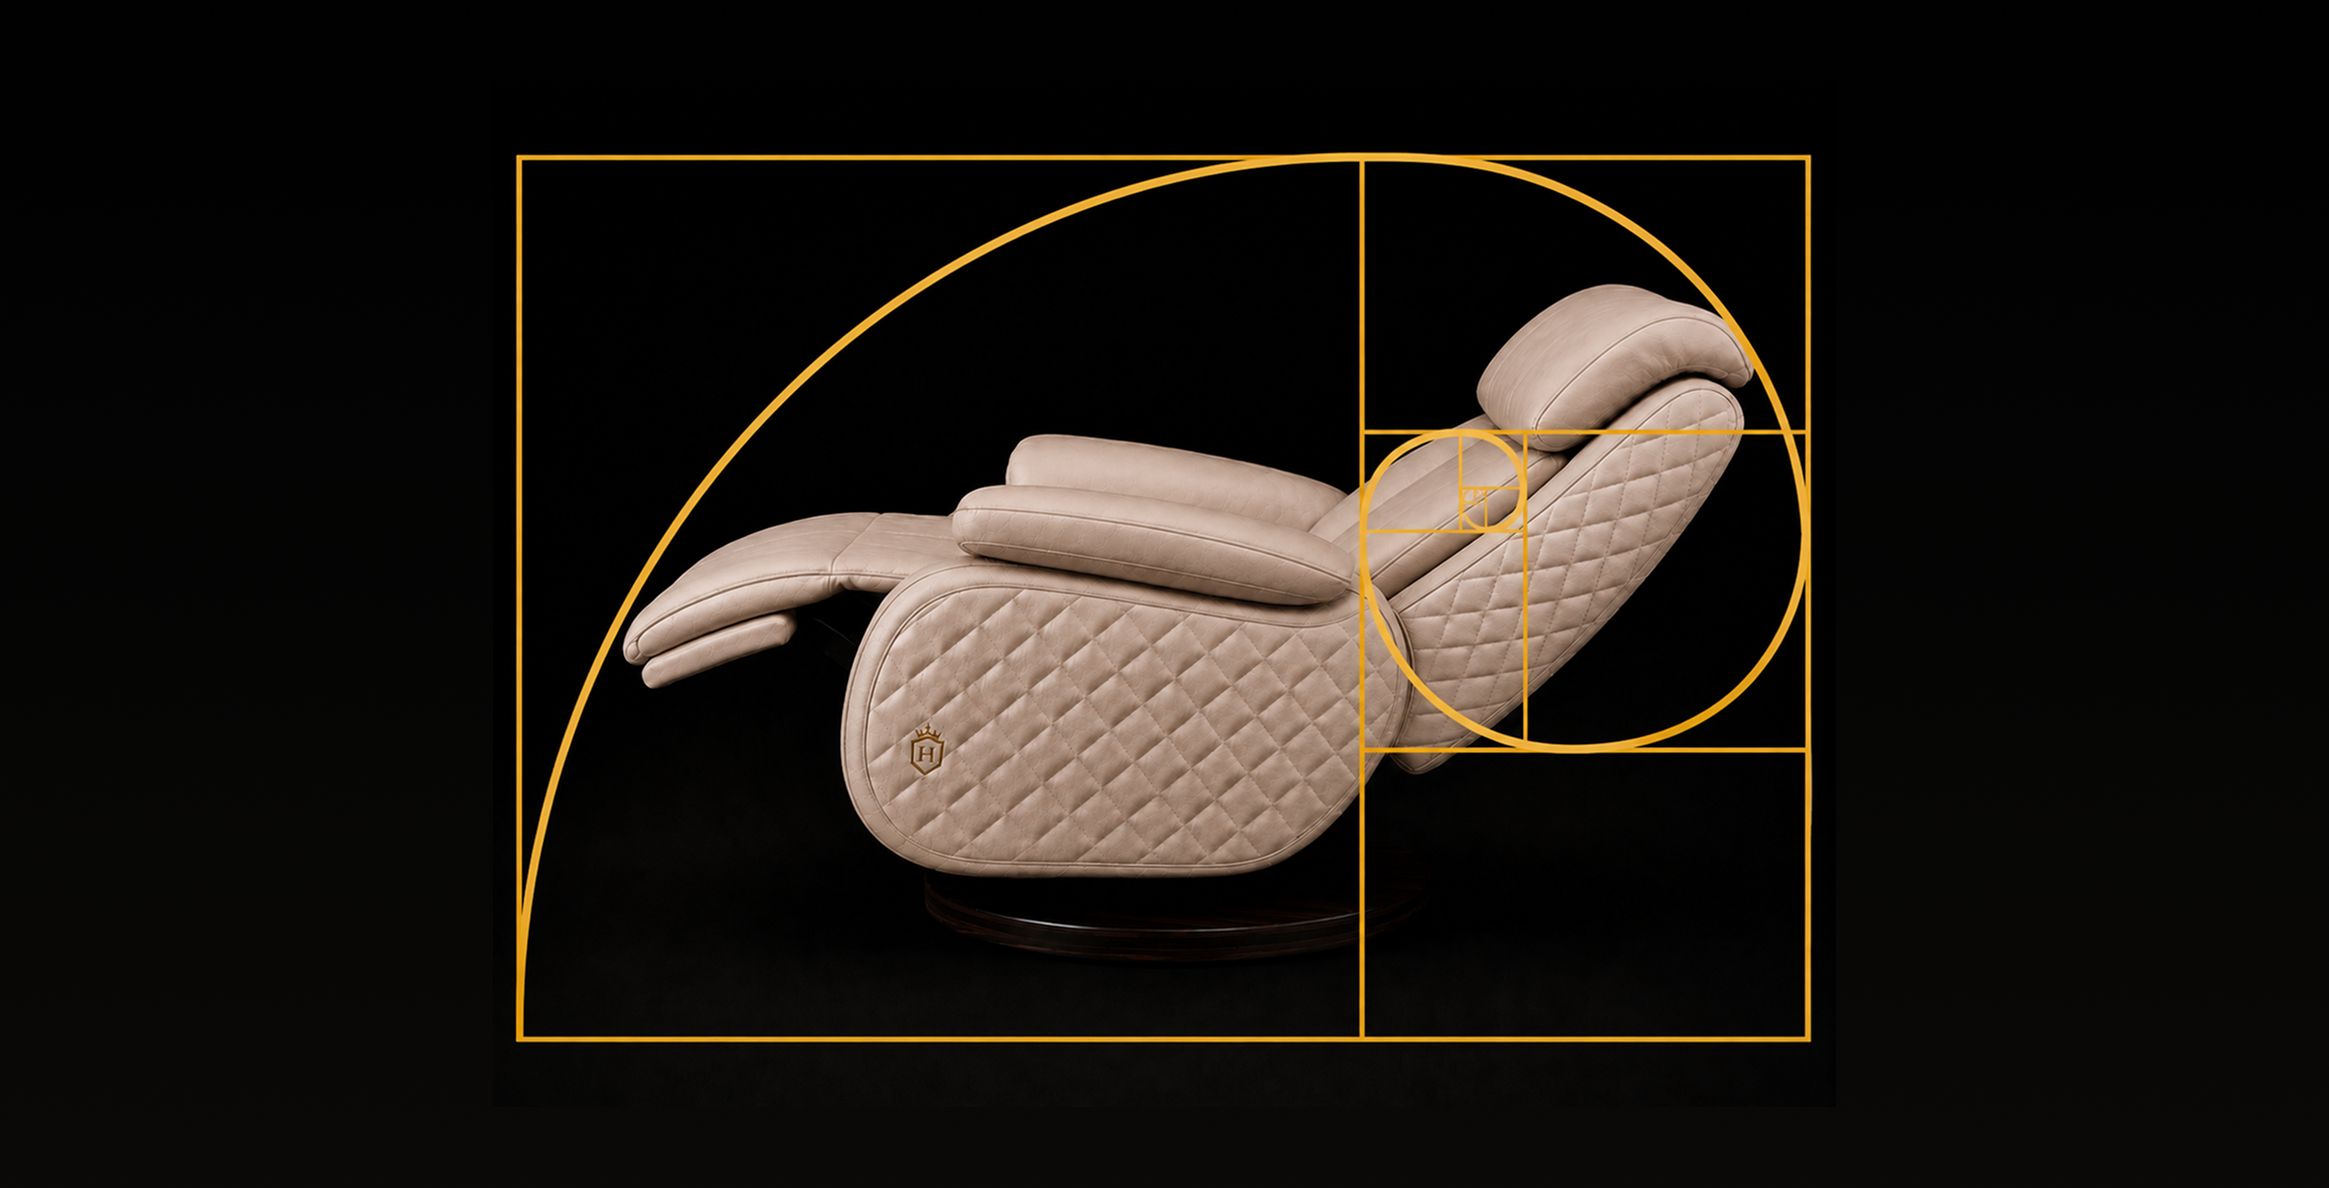
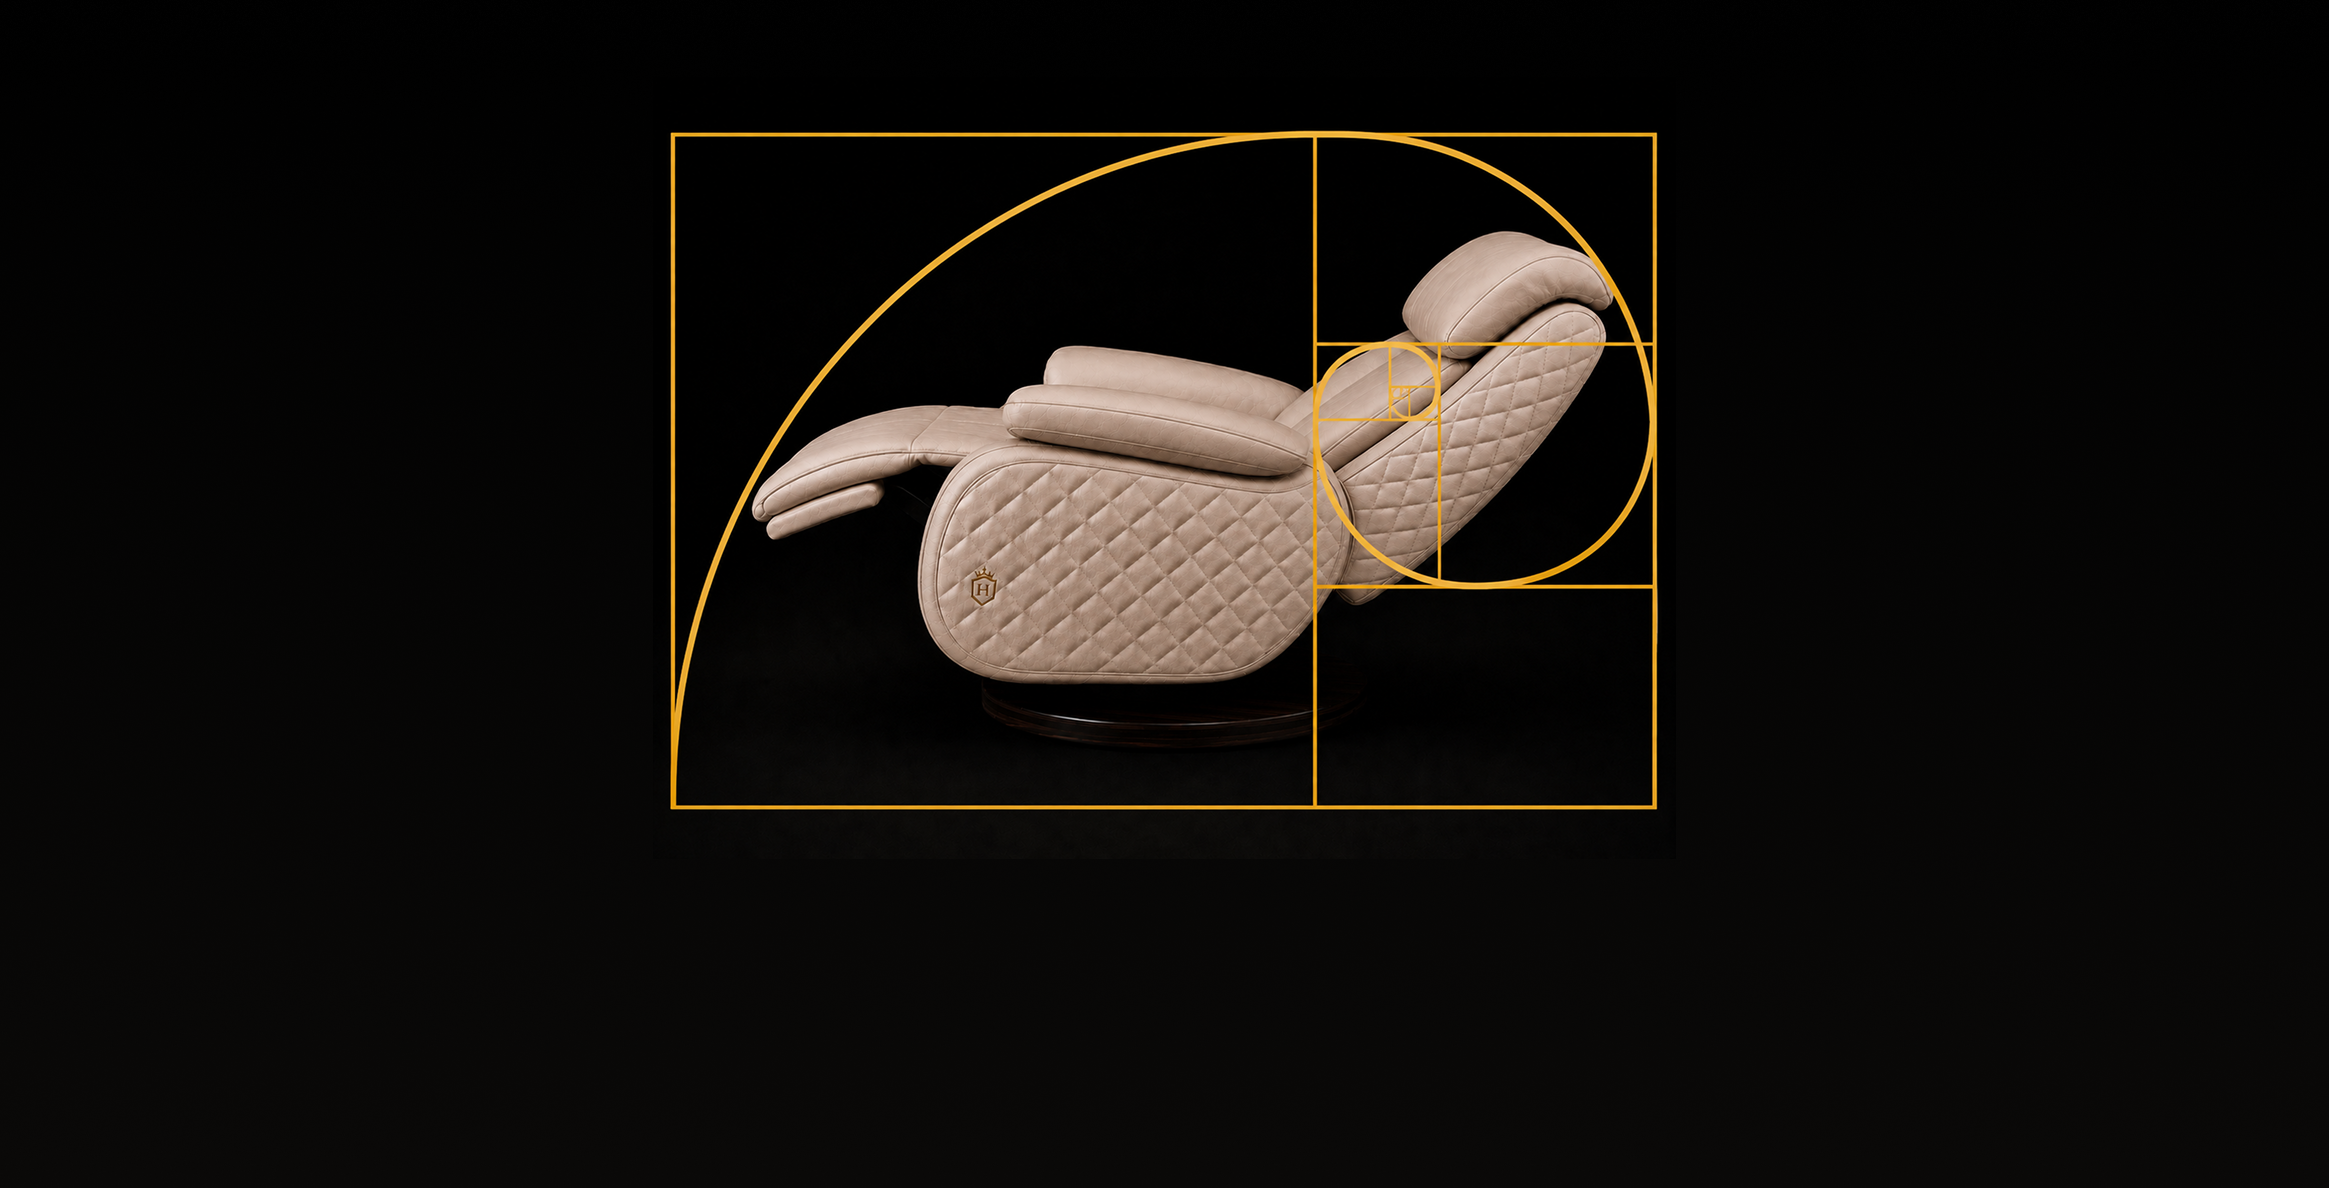
Update Filozofia Henry page copy and manifesto photo: new inspiration text, stacked family/manufactory heading, wider-margin chair image to keep overlay text clear of the golden ratio frame
Claude-Session: https://claude.ai/code/session_015RUcVHhEeqvYRALSDwFakm

Changed region(s): [[0.2164, 0.0934, 0.8038, 0.8721], [0.2164, 0.5918, 0.7729, 0.9032], [0.5565, 0.7475, 0.5874, 0.7786]]

diff --git a/files-mentioned-by-the-user-asset/outputs/henry-home-prototype/app/filozofia-henry/philosophy-experience.tsx b/files-mentioned-by-the-user-asset/outputs/henry-home-prototype/app/filozofia-henry/philosophy-experience.tsx
@@ -355,7 +355,7 @@ export function PhilosophyExperience() {
 
       <section className={styles.sketch} data-philosophy-reveal>
         <div className={styles.sketchText}>
-          <h2>Firma rodzinna. Manufaktura w Polsce</h2>
+          <h2>Firma rodzinna<br />Manufaktura w Polsce.</h2>
           <p>
             Jesteśmy firmą rodzinną dlatego wierzymy w relacje, odpowiedzialność i indywidualne podejście do
             każdego projektu. Fotele HENRY nie powstają na anonimowej linii produkcyjnej. Projektujemy i
@@ -367,8 +367,7 @@ export function PhilosophyExperience() {
       </section>
 
       <p className={styles.materialsNote} data-philosophy-reveal>
-        Każdy fotel HENRY może zostać dopasowany do swojego właściciela: od konfiguracji i funkcji, przez rodzaj
-        skóry i tkaniny, aż po drewno, przeszycia i detale wykończenia.
+        Naszą inspiracją jest historia kina, miejsca w którym rzemiosło i emocje zawsze szły w parze.
       </p>
 
       <figure className={styles.craftsman} data-philosophy-reveal>
